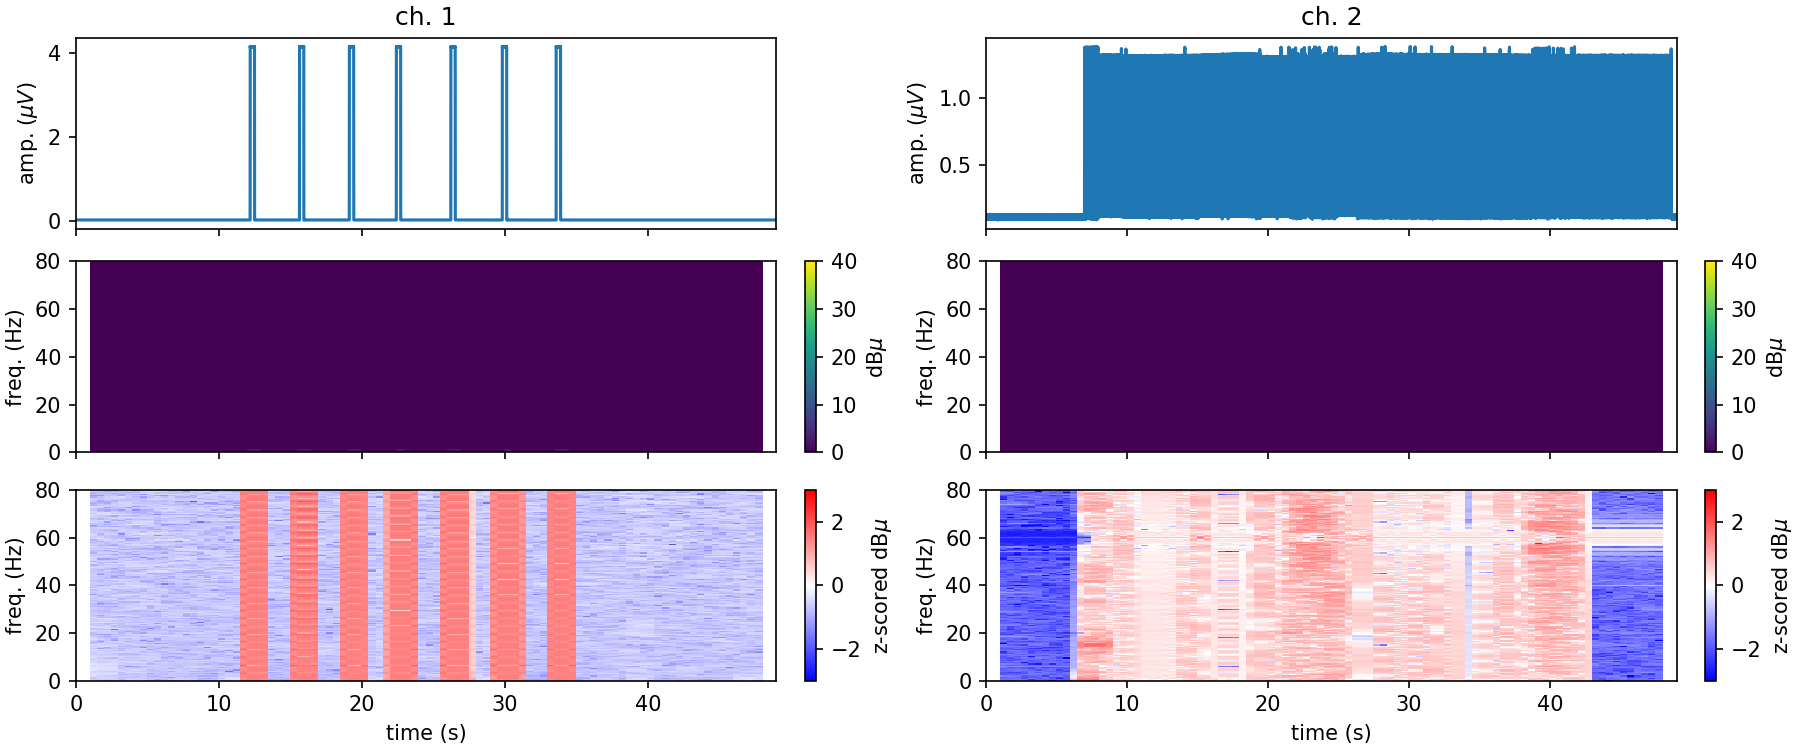
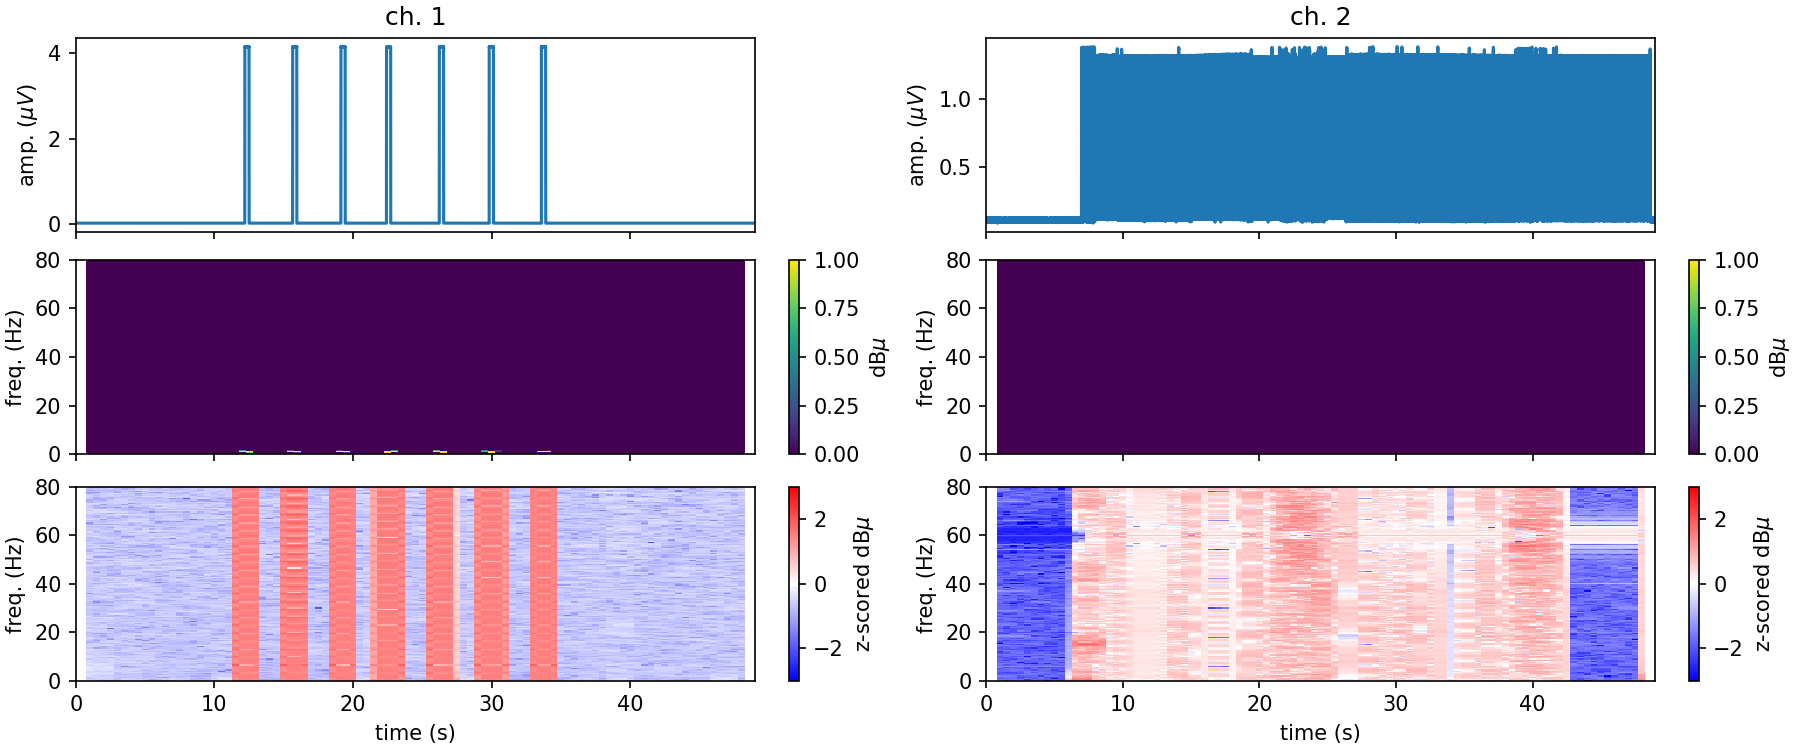
some suggestions

diff --git a/aopy/visualization.py b/aopy/visualization.py
@@ -950,15 +950,19 @@ def advance_plot_color(ax, n):
     for _ in range(n):
         next(ax._get_lines.prop_cycler)
 
-def profile_data_channels(data, samplerate, figuredir, figsize=(6,5), dpi=150):
+def profile_data_channels(data, samplerate, figuredir, **kwargs):
     """profile_data_channels
 
     Runs `plot_channel_summary` and `combine_channel_figures` on all channels in a data array
 
     Args:
-        data (n_sample x n_channel): numpy array of neural data
+        data (nt, nch): numpy array of neural data
         samplerate (int): sampling rate of data
         figuredir (str): string indicating file path to desired save directory
+        kwargs (**dict): keyword arguments to pass to plot_channel_summary()
+
+    .. image:: _images/channel_profile_example.png
+    
     """
     
     if not os.path.exists(figuredir):
@@ -967,10 +971,10 @@ def profile_data_channels(data, samplerate, figuredir, figsize=(6,5), dpi=150):
     
     for chidx in tqdm(range(nch)):
         chname = f'ch. {chidx+1}'
-        fig = plot_channel_summary(data[:,chidx], samplerate, chname=chname, figsize=figsize, dpi=dpi)
+        fig = plot_channel_summary(data[:,chidx], samplerate, title=chname, **kwargs)
         fig.savefig(os.path.join(figuredir,f'ch_{chidx}.png'))
         
-    combine_channel_figures(figuredir, nch=nch, figsize=figsize, dpi=dpi)
+    combine_channel_figures(figuredir, nch=nch, figsize=kwargs.pop('figsize', (6,5)), dpi=kwargs.pop('dpi', 150))
 
     
 def combine_channel_figures(figuredir, nch=256, figsize=(6,5), dpi=150):
@@ -981,6 +985,8 @@ def combine_channel_figures(figuredir, nch=256, figsize=(6,5), dpi=150):
     Args:
         figuredir (str): path to directory of channel profile images
         nch (int, optional): number of channels from data array. Determines combined image layout. Defaults to 256.
+        figsize (tuple, optional): (width, height) to pass to pyplot. Default (6, 5)
+        dpi (int, optional): resolution to pass to pyplot. Default 150
     """
     
     assert os.path.exists(figuredir), f"Directory not found: {figuredir}"
@@ -1006,7 +1012,7 @@ def combine_channel_figures(figuredir, nch=256, figsize=(6,5), dpi=150):
     grid.save(os.path.join(figuredir,'all_ch.png'),'png')
 
 
-def plot_channel_summary(chdata, samplerate, nperseg=None, noverlap=None, trange=None, chname=None, figsize=(6, 5), dpi=150, frange=(0, 80), cmap_lim=(0, 40)):
+def plot_channel_summary(chdata, samplerate, nperseg=None, noverlap=None, trange=None, title=None, figsize=(6, 5), dpi=150, frange=(0, 80), cmap_lim=(0, 40)):
     """plot_channel_summary
     
     Plot time domain trace, spectrogram and normalized (z-scored) spectrogram. Computes spectrogram.
@@ -1020,11 +1026,17 @@ def plot_channel_summary(chdata, samplerate, nperseg=None, noverlap=None, trange
     ---------------
     
     Args:
-        chdata (n_sample,1): neural recording data from a given channel (lfp, ecog, broadband)
+        chdata (nt,1): neural recording data from a given channel (lfp, ecog, broadband)
         samplerate (int): data sampling rate
         nperseg (int): length of each spectrogram window (in samples)
         noverlap (int): number of samples shared between neighboring spectrogram windows (in samples)
-    
+        trange (tuple, optional): (min, max) time range to display. Default show the entire time series
+        title (str, optional): print a title above the timeseries data. Default None
+        figsize (tuple, optional): (width, height) to pass to pyplot. Default (6, 5)
+        dpi (int, optional): resolution to pass to pyplot. Default 150
+        frange (tuple, optional): range of frequencies to display in spectrogram. Default (0, 80)
+        cmap_lim (tuple, optional): clim to display in the spectrogram. Default (0, 40)
+
     Outputs:
         fig (Figure): Figure object
     """
@@ -1065,6 +1077,6 @@ def plot_channel_summary(chdata, samplerate, nperseg=None, noverlap=None, trange
     ax[1].set_ylabel('freq. (Hz)')
     ax[2].set_ylabel('freq. (Hz)')
     ax[2].set_xlabel('time (s)')
-    ax[0].set_title(chname)
+    ax[0].set_title(title)
     
     return fig

diff --git a/tests/test_visualization.py b/tests/test_visualization.py
@@ -119,12 +119,12 @@ class NeuralDataPlottingTests(unittest.TestCase):
         test_data = test_data[::ds_factor,ch_list] * test_mdata['voltsperbit']
         samplerate = test_mdata['samplerate'] // ds_factor
 
-        profile_data_channels(test_data,samplerate,figure_dir)
-        # fig_out_path = os.path.join(docs_dir,'source','_images','channel_profile_example.png')
-        # os.replace(
-        #     os.path.join(figure_dir,'all_ch.png'),
-        #     fig_out_path
-        # )
+        profile_data_channels(test_data, samplerate, figure_dir, cmap_lim=(0,1))
+        fig_out_path = os.path.join(docs_dir,'source','_images','channel_profile_example.png')
+        os.replace(
+            os.path.join(figure_dir,'all_ch.png'),
+            fig_out_path
+        )
     
 class CurveFittingTests(unittest.TestCase):
     def test_plot_tuning_curves(self):
